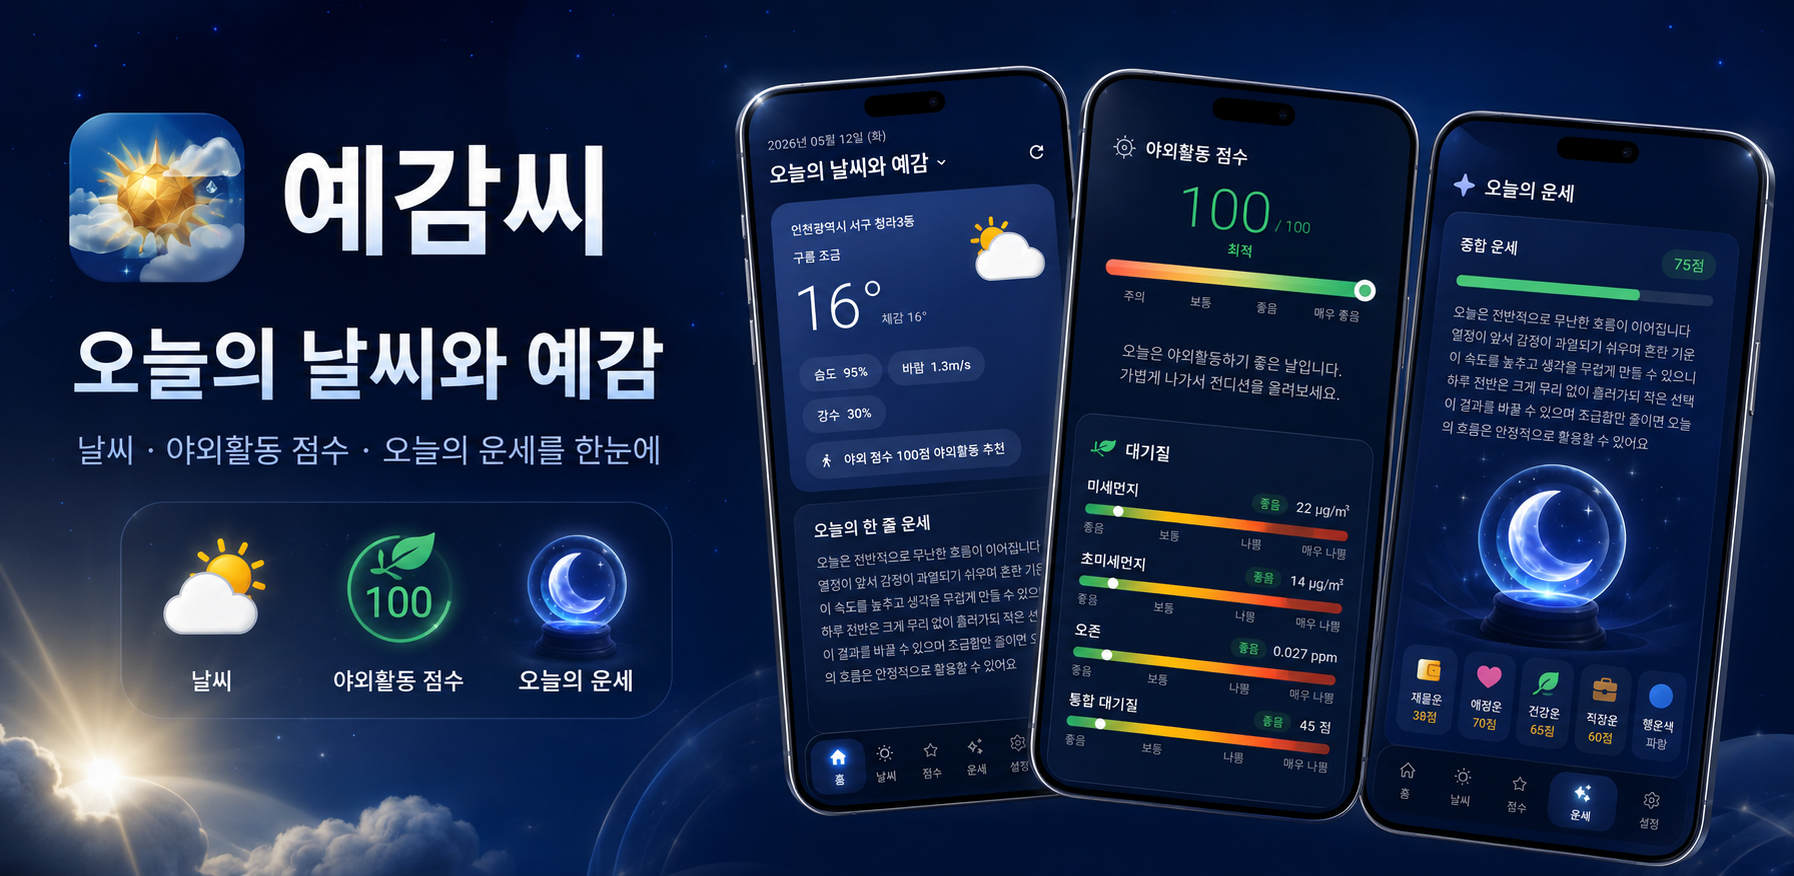
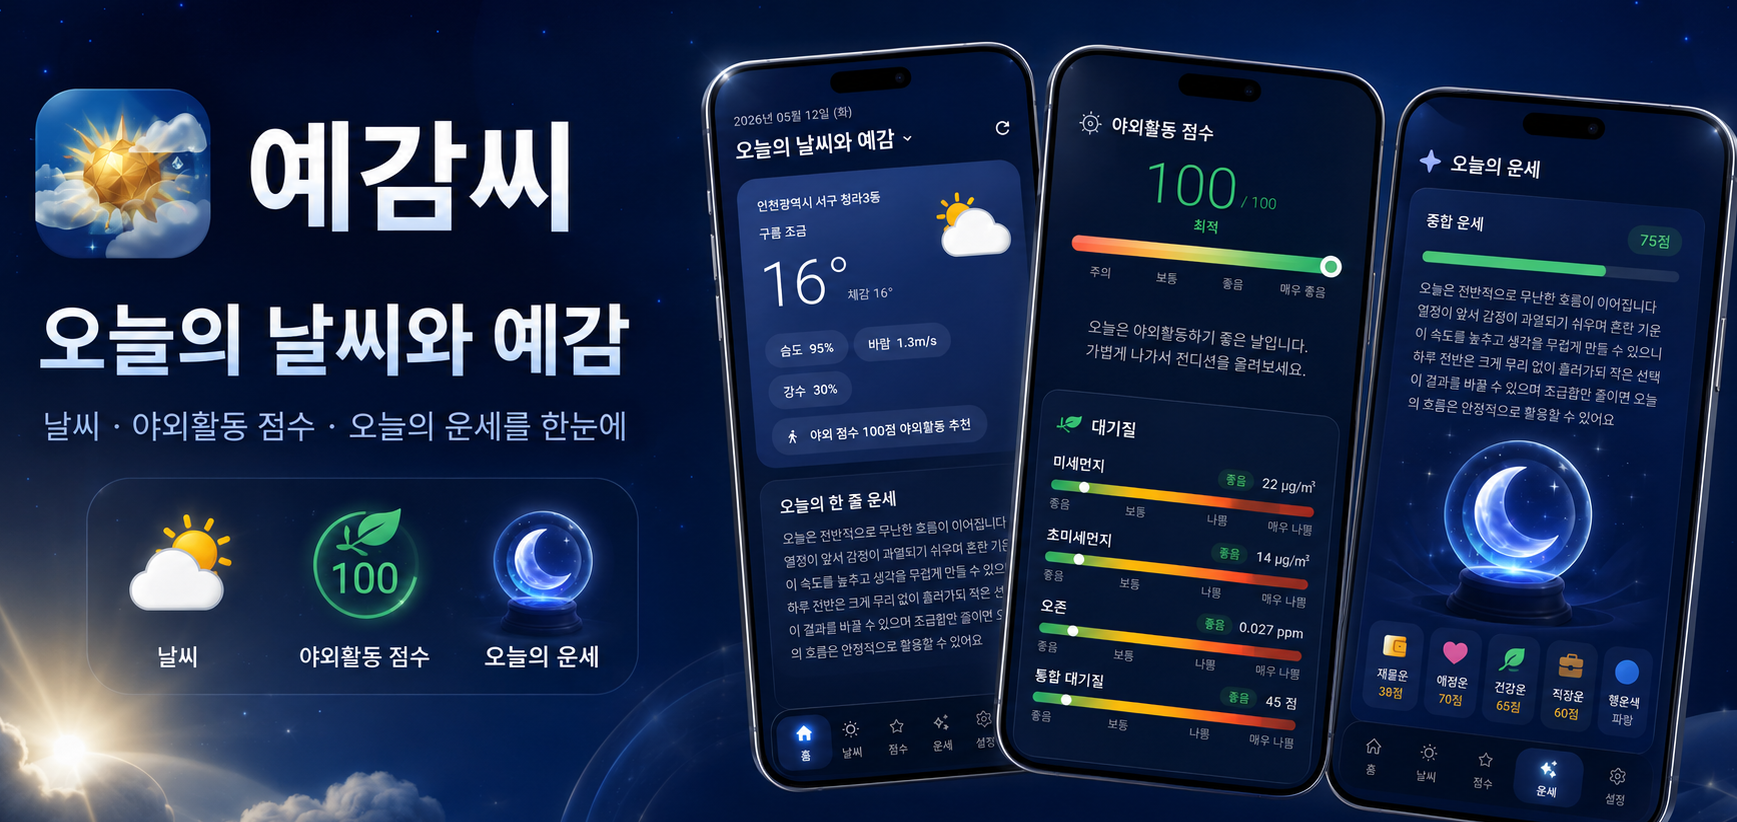
Remove WorkManager background weather sync

diff --git a/lib/main.dart b/lib/main.dart
@@ -2,11 +2,9 @@ import 'package:flutter/material.dart';
 import 'package:flutter_dotenv/flutter_dotenv.dart';
 import 'package:flutter_riverpod/flutter_riverpod.dart';
 import 'package:google_mobile_ads/google_mobile_ads.dart';
-import 'package:workmanager/workmanager.dart';
 
 import 'app.dart';
 import 'core/config/supabase_config.dart';
-import 'features/widget_bridge/background_weather_sync.dart';
 
 Future<void> main() async {
   WidgetsFlutterBinding.ensureInitialized();
@@ -14,23 +12,6 @@ Future<void> main() async {
   await dotenv.load();
   await SupabaseConfig.initialize();
   MobileAds.instance.initialize();
-
-  await Workmanager().initialize(callbackDispatcher);
-  await Workmanager().registerOneOffTask(
-    '${kBackgroundWeatherSyncTask}_startup',
-    kBackgroundWeatherSyncTask,
-    constraints: Constraints(networkType: NetworkType.connected),
-    existingWorkPolicy: ExistingWorkPolicy.replace,
-    initialDelay: const Duration(seconds: 10),
-  );
-  await Workmanager().registerPeriodicTask(
-    kBackgroundWeatherSyncTask,
-    kBackgroundWeatherSyncTask,
-    frequency: const Duration(minutes: 15),
-    constraints: Constraints(networkType: NetworkType.connected),
-    existingWorkPolicy: ExistingPeriodicWorkPolicy.replace,
-    initialDelay: const Duration(minutes: 1),
-  );
 
   runApp(const ProviderScope(child: YegamssiApp()));
 }